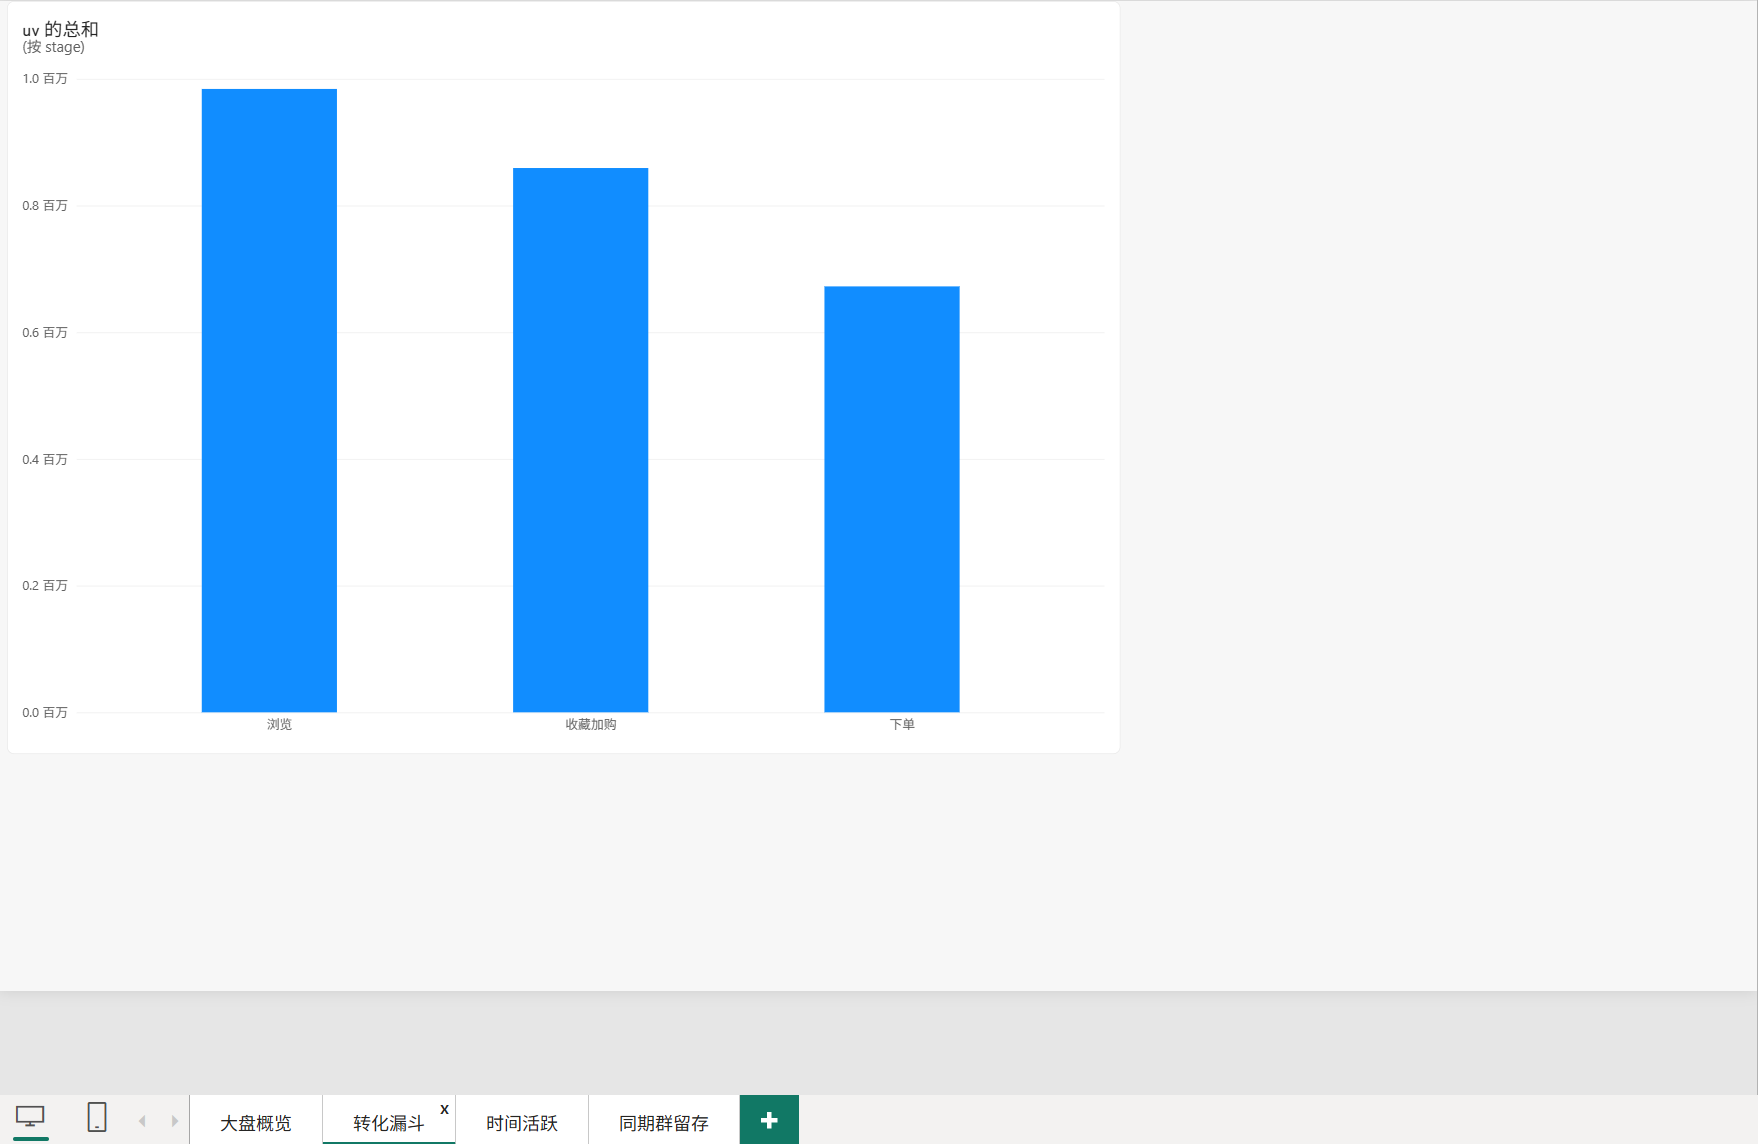
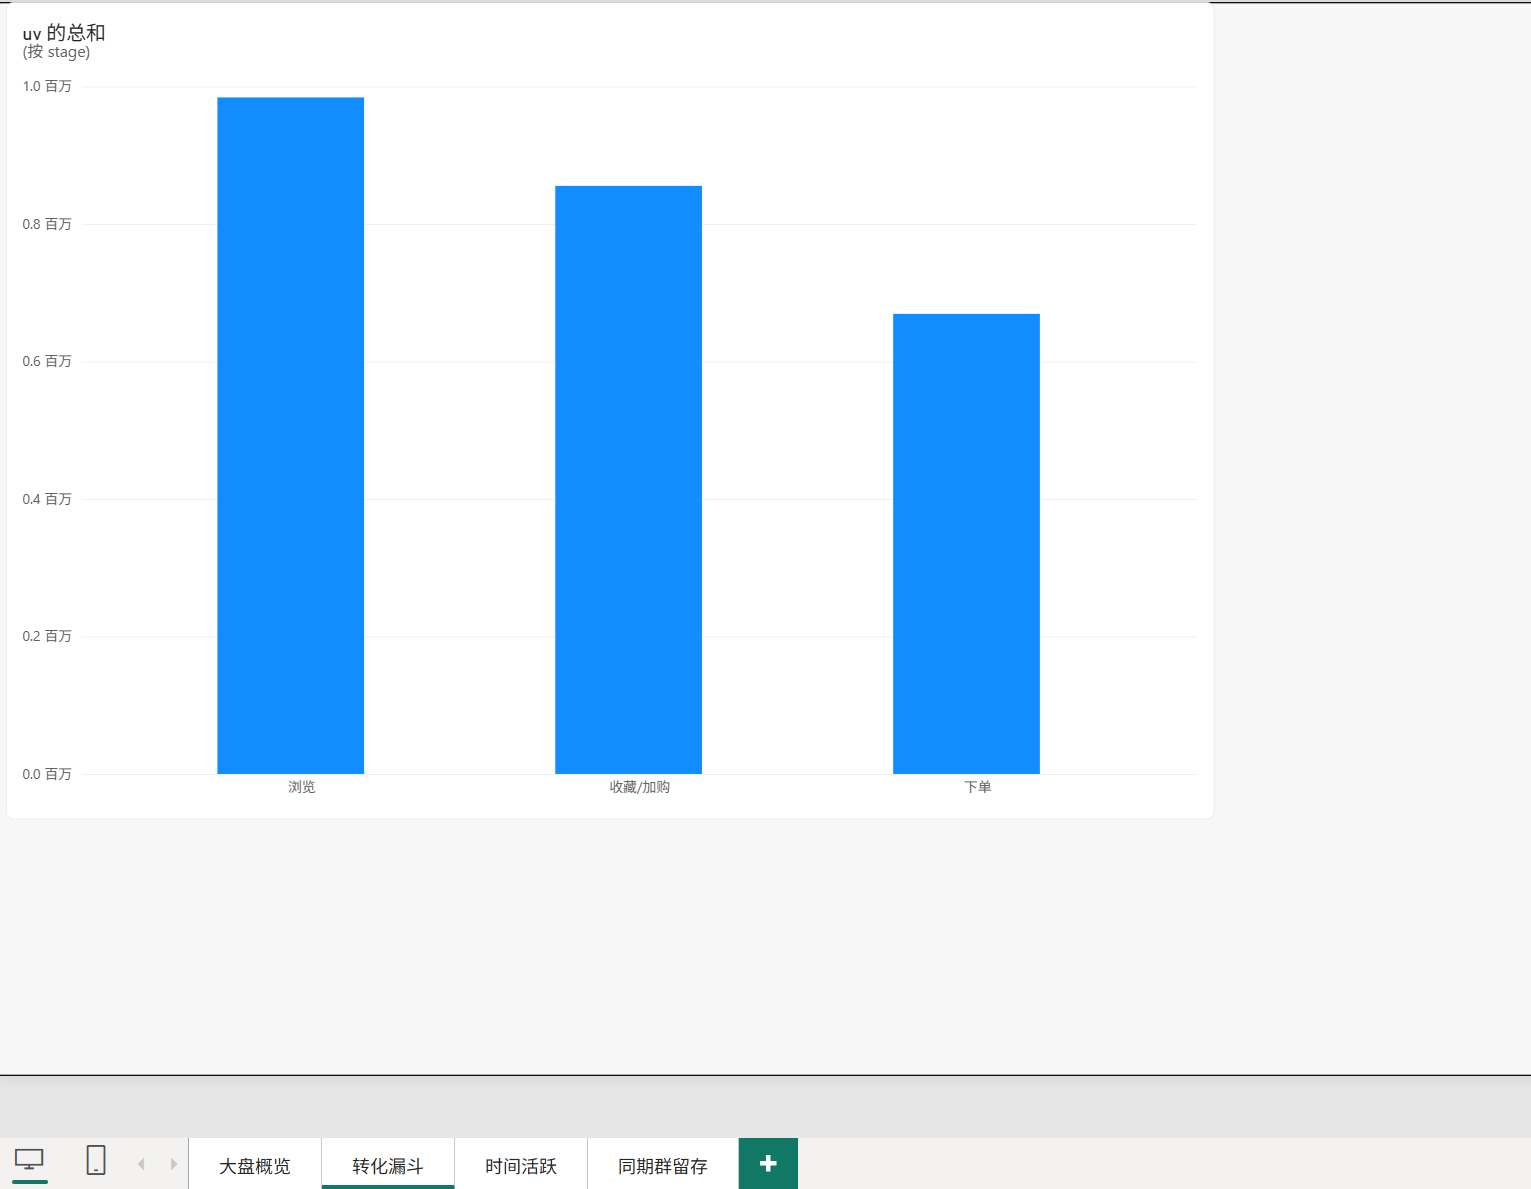
1.2更新

diff --git a/README.md b/README.md
@@ -15,27 +15,47 @@
 ## 分析流程
 1. **数据清洗**：Unix 时间戳转标准日期与小时字段，去重，按有效时间窗口过滤样本，生成分析宽表 `ub_clean`，并在 user_id、dt 字段建索引。
 2. **大盘指标统计**：PV、UV、DAU、收藏量、加购量、下单量、购买用户数。
-3. **转化漏斗分析**：浏览 → 收藏/加购 → 下单，计算各环节用户级转化率。
+3. **转化漏斗分析**：以“浏览 → 下单”两级为主漏斗（严格嵌套，后一阶段为前一阶段的子集），收藏/加购不计入主漏斗，作为深度互动分支单独统计其渗透率与下单率。
 4. **时间维度分析**：日活跃趋势、24 小时活跃分布，定位活跃高峰时段。
 5. **类目分析**：统计各类目浏览量与购买用户规模，定位高流量头部类目。
 6. **同期群 Cohort 留存分析**：按用户首次访问日分组，追踪后续日期回访率。
 
 ## 核心指标结论
-- **大盘**：9 天累计 PV 8966 万，UV 98.4 万，下单用户 67.2 万，总下单次数 201 万。
-- **转化漏斗**：浏览用户中 87.0% 在窗口期内产生过收藏或加购行为；其中 78.3% 最终完成下单；整体浏览用户→购买用户转化率 68.1%。"收藏加购→下单"环节流失约 22%，是漏斗中最大的流失节点。
+- **大盘**：9 天累计 PV 8966 万，UV 98.4 万，下单用户 66.9 万，总下单次数 201 万。
+- **转化漏斗**：主漏斗为两级——浏览用户 984,105 人，下单 669,310 人，浏览→购买转化率 68.0%。看板中的三级展示（浏览 984,105 → 收藏/加购 855,498 → 下单 669,310）需注意口径：「下单」这一级并非严格包含于「收藏/加购」，其中 69,032 人（占浏览用户 7.0%）未产生收藏或加购行为即直接下单，真正经过收藏/加购路径完成下单的为 600,278 人（在该人群内转化率 70.2%）。因此收藏/加购不作为购买的必要前置环节，仅作为深度互动信号单独呈现：该人群下单率 70.2%，未产生深度互动的用户下单率 53.7%，两者相差 16.5 个百分点。可见收藏/加购显著提升转化意向，但非必经路径。因数据集为活跃用户抽样，绝对转化率高于平台真实水平，结论仅用于用户行为的横向比较。
 - **活跃规律**：用户活跃高峰集中在晚间 21 点前后。
 - **留存**：以首次访问日划分同期群，新用户次日留存率约 79%（注：该数值为 9 天活跃用户样本内口径，受大促期间高频用户影响，偏高）。
 - **类目**：头部类目单类目贡献约 448 万次浏览、2.4 万购买用户，流量集中度较高。
 
+## 关键图表
+
+**Power BI 交互看板（四页）**
+
+| 页面 | 预览 |
+| --- | --- |
+| 大盘概览 | ![大盘概览](dashboard/powerbi/1_大盘概览.png) |
+| 转化漏斗 | ![转化漏斗](dashboard/powerbi/2_转化漏斗.png) |
+| 时间活跃 | ![时间活跃](dashboard/powerbi/3_时间活跃.png) |
+| 同期群留存 | ![同期群留存](dashboard/powerbi/4_同期群留存.png) |
+
+**Python 静态图表**
+
+| 图表 | 产出文件 |
+| --- | --- |
+| 24 小时分时段活跃 UV（日均 + 单日峰值） | `dashboard/img/hour_active.png` |
+| 每日 DAU 趋势、每日 PV 趋势 | `dashboard/img/daily_dau.png`、`dashboard/img/daily_pv.png` |
+| 用户级转化漏斗（浏览→下单） | `dashboard/img/funnel.png` |
+| 类目 Top20 明细、同期群留存矩阵 | `dashboard/img/cat_top20.csv`、`dashboard/img/retention.csv` |
+
 ## 业务建议
-1. **针对加购未下单用户**：在购物车页推送优惠券、库存提醒、限时活动，降低"收藏加购→下单"环节流失。
+1. **针对加购未下单用户**：在购物车页推送优惠券、库存提醒、限时活动。加购人群下单率 70.2%，未加购人群 53.7%，相差 16.5 个百分点，购物车与收藏夹是最值得投入的挽回阵地。
 2. **流量高峰时段运营**：晚间 21 点前后增加优质商品推荐、直播、弹窗活动，承接高峰流量。
 3. **头部类目专项优化**：对高流量类目优化商品主图、详情页与评价体系，提升浏览向购买的转化效率。
 4. **新用户召回**：对仅浏览未加购的用户，通过首页个性化推荐与兴趣商品 push 引导二次回访。
 
 ## 工具栈
 - **MySQL**：亿级数据存储、清洗、聚合查询（CTE、窗口函数、漏斗、Cohort）
-- **Python (Pandas + Matplotlib)**：数据校验、二次探索、静态图表绘制
+- **Python (Pandas + Matplotlib)**：全量指标复算与交叉校验、静态图表绘制
 - **Power BI**：交互式看板搭建，含大盘概览、转化漏斗、时间活跃、同期群留存四个模块
 
 ## 项目结构
